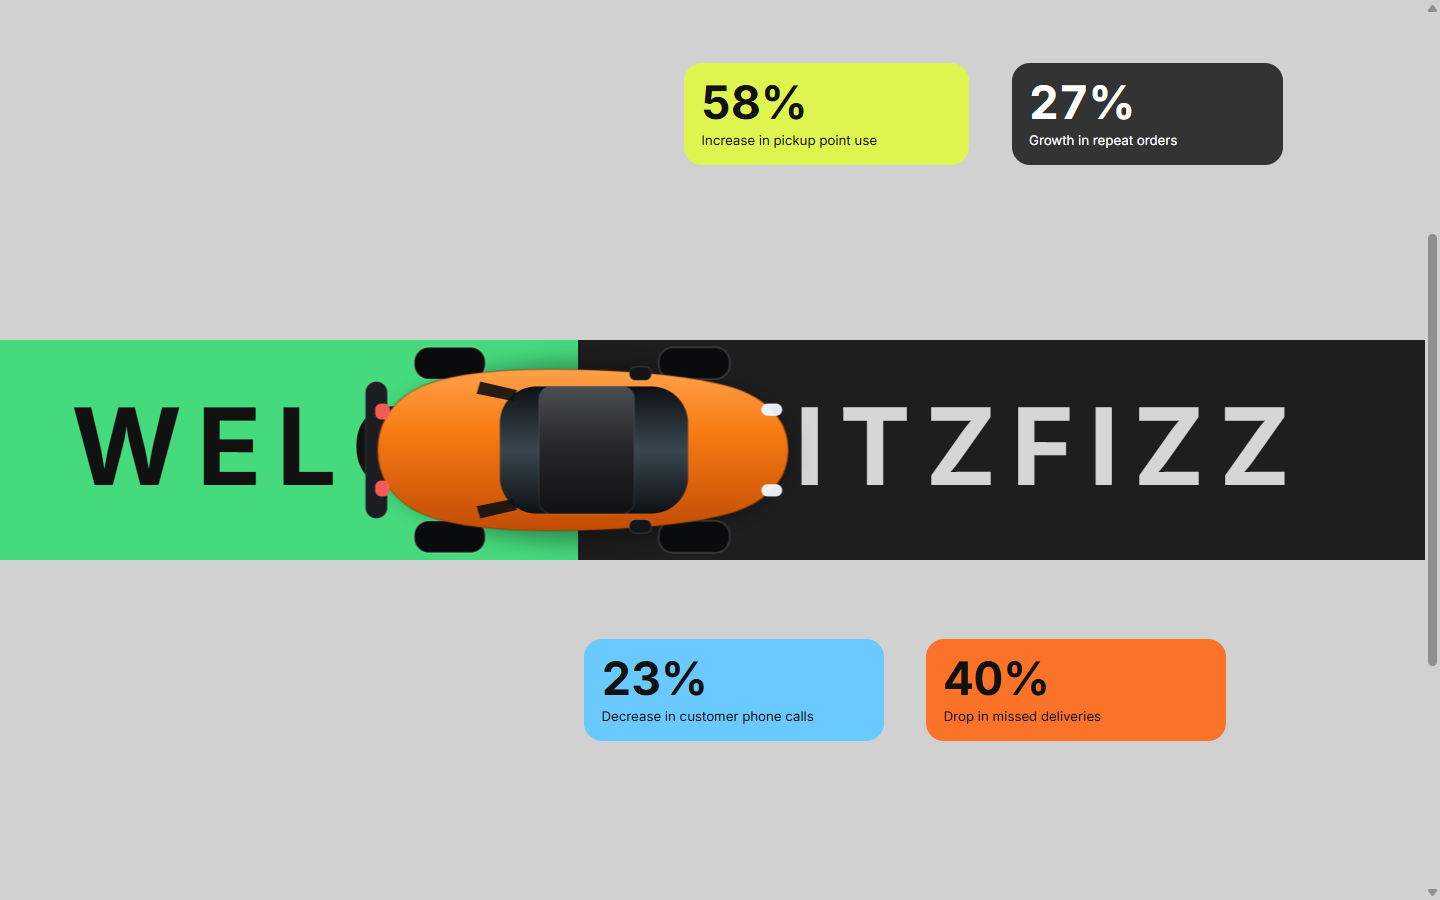
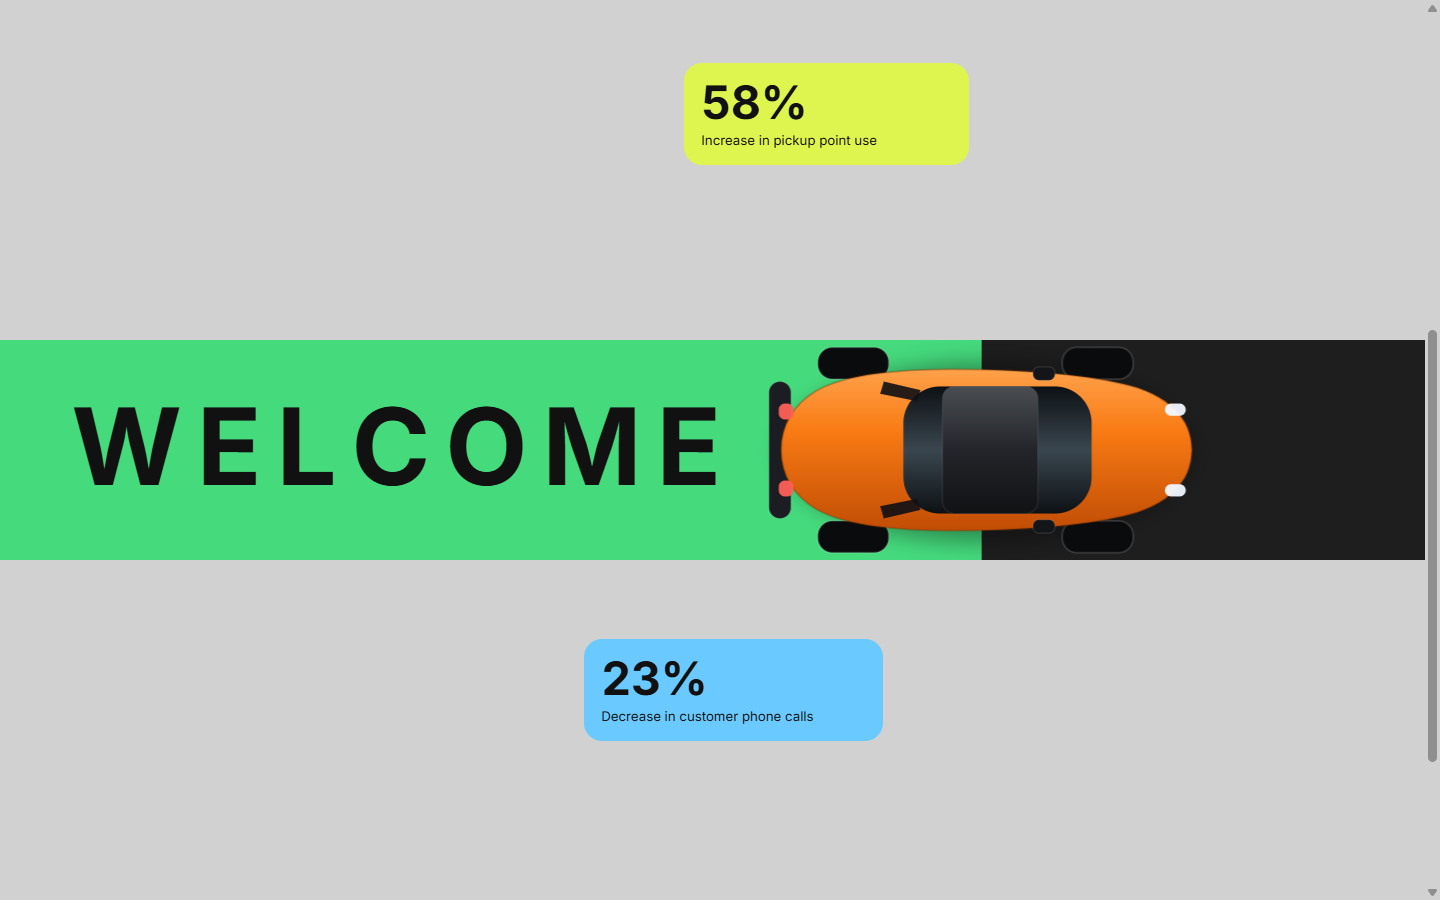
fix: hide unpainted letters, reveal boxes on scroll, lock car to scroll
Three issues reported after the single-screen rebuild:

- The headline's unpainted letters rendered in light gray, so the full
  "WELCOME ITZFIZZ" was visible from the start. They are now transparent
  and fade in as the car paints over them, matching the reference.
- The stat boxes only pulsed as the car passed instead of appearing. They now
  fade and slide in when the car reaches their column and stay visible.
- The frame appeared to drift and jump back while scrolling. scrub: 0.5 added
  a smoothing delay, so the car lagged behind the viewport and rubber-banded
  after the scroll stopped. scrub: true binds the car rigidly to scroll
  position, eliminating the lag.
- The car now starts partially in frame on the left, as in the reference.

diff --git a/src/components/Scene.tsx b/src/components/Scene.tsx
@@ -18,6 +18,7 @@ export default function Scene() {
     () => {
       const rootEl = root.current!;
       const screenEl = screen.current!;
+      const stageEl = rootEl.querySelector<HTMLElement>("[data-stage]")!;
       const bandEl = band.current!;
       const trailEl = trail.current!;
       const carEl = car.current!;
@@ -27,7 +28,7 @@ export default function Scene() {
       const setTrail = gsap.quickSetter(trailEl, "scaleX") as (value: number) => void;
 
       const painted = letterEls.map(() => false);
-      const boxArmed = boxEls.map(() => true);
+      const boxShown = boxEls.map(() => false);
       const measurements = {
         bandW: 0,
         carW: 0,
@@ -57,6 +58,7 @@ export default function Scene() {
         const carCenter = x + carW / 2;
         setTrail(gsap.utils.clamp(0, 1, carCenter / bandW));
 
+        // A letter flips to ink once the car's leading edge has fully covered it.
         letterEls.forEach((el, index) => {
           const threshold = letterX[index];
           const hit = painted[index]
@@ -66,36 +68,22 @@ export default function Scene() {
 
           painted[index] = hit;
           el.classList.toggle("is-painted", hit);
-
-          if (hit) {
-            gsap.fromTo(
-              el,
-              { scale: 0.86 },
-              { scale: 1, duration: 0.45, ease: "back.out(2.4)", overwrite: "auto" }
-            );
-          }
         });
 
+        // A stat box appears (and stays) once the car has reached its column.
         boxEls.forEach((el, index) => {
-          const near = Math.abs(carCenter - boxX[index]) < 16;
+          const reached = carCenter >= boxX[index];
+          if (reached === boxShown[index]) return;
 
-          if (near && boxArmed[index]) {
-            boxArmed[index] = false;
-            gsap.fromTo(
-              el,
-              { scale: 1 },
-              {
-                scale: 1.05,
-                duration: 0.16,
-                yoyo: true,
-                repeat: 1,
-                ease: "power2.out",
-                overwrite: "auto",
-              }
-            );
-          } else if (!near && !boxArmed[index]) {
-            boxArmed[index] = true;
-          }
+          boxShown[index] = reached;
+          gsap.to(el, {
+            autoAlpha: reached ? 1 : 0,
+            y: 0,
+            scale: 1,
+            duration: 0.45,
+            ease: "power3.out",
+            overwrite: "auto",
+          });
         });
       };
 
@@ -107,28 +95,26 @@ export default function Scene() {
       const mm = gsap.matchMedia();
 
       mm.add("(prefers-reduced-motion: no-preference)", () => {
-        const q = gsap.utils.selector(screenEl);
-
         measure();
         ScrollTrigger.addEventListener("refreshInit", handleRefreshInit);
 
-        const intro = gsap.timeline({ defaults: { ease: "power3.out" } });
+        // Load reveal: the stage fades in gently. The headline letters and the
+        // stat boxes deliberately stay hidden here — they belong to the car,
+        // which paints them in as it drives (matching the reference). Only
+        // opacity on the container is animated, so it never competes with the
+        // car scroll tween below.
+        const intro = gsap.fromTo(
+          stageEl,
+          { autoAlpha: 0 },
+          { autoAlpha: 1, duration: 0.8, ease: "power2.out" }
+        );
 
-        intro
-          .to(
-            q("[data-anim='letter']"),
-            { y: 0, autoAlpha: 1, duration: 0.9, ease: "power4.out", stagger: 0.045 },
-            0.15
-          )
-          .to(
-            q("[data-anim='box']"),
-            { y: 0, autoAlpha: 1, duration: 0.7, stagger: 0.18 },
-            0.7
-          );
-
+        // The car is bound rigidly to scroll progress (scrub: true) so it can
+        // never lag behind or rubber-band against the viewport. It starts
+        // partially in frame on the left, exactly as in the reference.
         const tween = gsap.fromTo(
           carEl,
-          { x: () => -measurements.carW },
+          { x: () => -measurements.carW * 0.72 },
           {
             x: () => measurements.bandW - measurements.carW * 0.55,
             ease: "none",
@@ -140,7 +126,7 @@ export default function Scene() {
               trigger: rootEl,
               start: "top top",
               end: "bottom bottom",
-              scrub: 0.5,
+              scrub: true,
               invalidateOnRefresh: true,
               onRefresh: () => {
                 refreshing = false;
@@ -173,6 +159,7 @@ export default function Scene() {
         gsap.set(carEl, { x: measurements.bandW - measurements.carW * 0.55 });
         setTrail(1);
         letterEls.forEach((el) => el.classList.add("is-painted"));
+        gsap.set(boxEls, { autoAlpha: 1 });
       });
 
       return () => mm.revert();
@@ -182,7 +169,7 @@ export default function Scene() {
 
   return (
     <div ref={root} className="scene relative h-[200vh]">
-      <div ref={screen} className="sticky top-0 h-svh overflow-hidden">
+      <div ref={screen} data-stage className="sticky top-0 h-svh overflow-hidden">
         <div
           ref={band}
           className="bg-road absolute inset-x-0 top-1/2 -translate-y-1/2 overflow-hidden"
@@ -229,7 +216,6 @@ export default function Scene() {
         {STATS.map((stat) => (
           <div
             key={stat.value}
-            data-anim="box"
             className="stat-box absolute"
             style={
               {

diff --git a/src/app/globals.css b/src/app/globals.css
@@ -39,18 +39,26 @@ body {
   will-change: transform;
 }
 
+/* ---------------------------------------------------------------------------
+   Headline.
+   Letters are invisible until the car has driven over them, exactly as in the
+   reference — then they fade to solid ink on the painted trail.
+--------------------------------------------------------------------------- */
+
 .headline-letter {
-  color: #d6d6d6;
-  transition: color 0.45s cubic-bezier(0.22, 1, 0.36, 1);
+  color: #111111;
+  opacity: 0;
+  transition: opacity 0.3s ease-out;
 }
 
 .headline-letter.is-painted {
-  color: #111111;
+  opacity: 1;
 }
 
 /* ---------------------------------------------------------------------------
-   Stat boxes — desktop uses the reference's staggered placement; small
-   screens fall back to a 2 x 2 grid that clears the road band.
+   Stat boxes — hidden until the car reaches them.
+   Desktop uses the reference's staggered placement; small screens fall back to
+   a 2 x 2 grid that clears the road band.
 --------------------------------------------------------------------------- */
 
 .stat-box {
@@ -59,6 +67,8 @@ body {
   width: var(--box-width);
   padding: 1.1vw 1.2vw;
   border-radius: clamp(10px, 1.4vw, 18px);
+  opacity: 0;
+  will-change: transform, opacity;
 }
 
 @media (max-width: 767px) {
@@ -72,28 +82,16 @@ body {
 }
 
 /* ---------------------------------------------------------------------------
-   Pre-animation states.
-   Elements are hidden in CSS so there is no flash before GSAP takes over.
-   The reduced-motion query below reveals everything for users who opt out.
+   Reduced motion: skip every animation and show the completed frame.
 --------------------------------------------------------------------------- */
 
-[data-anim="letter"] {
-  opacity: 0;
-  transform: translate3d(0, 115%, 0);
-}
-
-[data-anim="box"] {
-  opacity: 0;
-  transform: translate3d(0, 1.5rem, 0);
-}
-
 @media (prefers-reduced-motion: reduce) {
-  [data-anim] {
+  .headline-letter {
     opacity: 1;
-    transform: none;
+    transition: none;
   }
 
-  .headline-letter {
-    transition: none;
+  .stat-box {
+    opacity: 1;
   }
 }

diff --git a/README.md b/README.md
@@ -15,8 +15,8 @@ built with **Next.js**, **React**, **Tailwind CSS** and **GSAP ScrollTrigger**.
 
 Everything lives on **one screen**. The headline sits on the road band, the four stat
 boxes float above and below it, and the only thing that moves is the car — driving left
-to right, painting the green trail and flipping the headline letters to solid ink as it
-passes them.
+to right, painting the green trail, revealing the headline letters one by one and
+bringing each stat box into view as it passes.
 
 ## Functional requirements
 
@@ -29,21 +29,22 @@ passes them.
 
 **2. Initial load animation**
 
-- The headline letters fade and rise out of a clipped mask, staggered left to right
-  (`power4.out`, 45 ms apart).
-- The four stat boxes slide up and fade in one-by-one with a subtle 180 ms delay between
-  them, so the load reads as premium rather than abrupt.
+- On load the page shows exactly what the reference does: the road band and the car,
+  with the headline letters and the stat boxes still hidden — they belong to the car.
+- The band and car fade up gently as the page settles, then everything else is driven
+  entirely by scroll.
 
 **3. Scroll-based animation (core feature)**
 
-- The car's position is driven purely by scroll progress through a `ScrollTrigger`
-  with `scrub`, so it is tied to scroll and never autoplays.
-- `scrub: 0.5` interpolates between scroll positions, giving the motion an eased,
-  fluid feel instead of snapping to discrete scroll events.
+- The car's position is driven purely by scroll progress through a `ScrollTrigger`,
+  so it is tied to scroll and never autoplays.
+- `scrub: true` binds the car rigidly to scroll position. There is no smoothing delay,
+  so the car can never drift behind the viewport or rubber-band back after the scroll
+  stops.
 - The green trail is a full-width bar whose `scaleX` is locked to the car's leading edge.
-- Each headline letter flips from light gray to solid dark the moment the car covers it,
-  with a small `back.out` pop — the reference's signature move.
-- Each stat box gives a short scale pulse as the car drives beneath it.
+- Each headline letter fades in as solid ink the moment the car's leading edge fully
+  covers it — the reference's signature move.
+- Each stat box fades and slides in as the car reaches its column, and stays visible.
 
 **4. Motion & performance**
 
